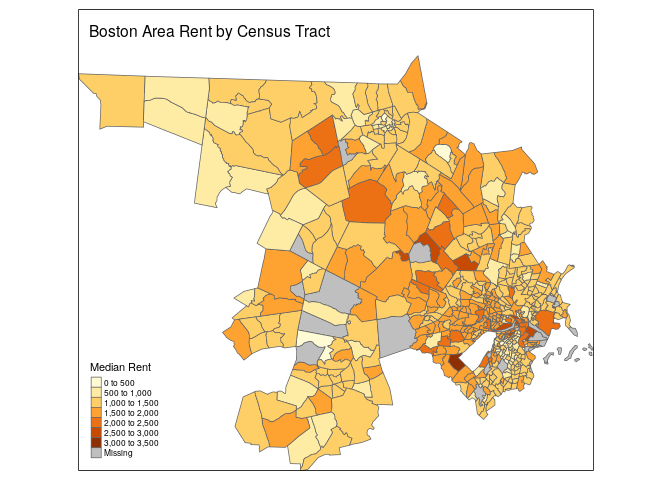
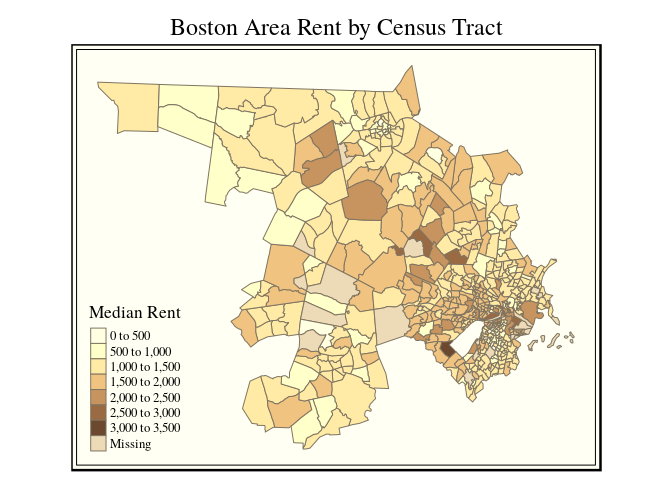
map++

diff --git a/source/Geospatial_Analysis.md b/source/Geospatial_Analysis.md
@@ -1,7 +1,7 @@
 Geospatial Analysis
 ================
 Jesse Cambon
-15 August, 2018
+31 August, 2018
 
 -   [References](#references)
 -   [Setup](#setup)
@@ -14,9 +14,6 @@ References
 ----------
 
 -   <https://github.com/mtennekes/tmap>
--   <https://ggplot2.tidyverse.org/reference/index.html>
--   <https://github.com/wmurphyrd/fiftystater>
--   <https://github.com/mtennekes/tmap/tree/master/demo/USChoropleth>
 -   <https://mran.revolutionanalytics.com/snapshot/2016-03-22/web/packages/tmap/vignettes/tmap-nutshell.html>
 
 Setup
@@ -26,14 +23,10 @@ Setup
 library(tidyverse)
 library(tidycensus) # census data
 library(ggplot2)
-library(sf) # geospatial methods
+#library(sf) # geospatial methods
 library(tmap) # thematic mapping
 library(viridis) # color scheme
-#library(albersusa) # US country map
-#library(ggthemes)
-#library(spData)
-library(wbstats) # world bank
-#library(maps)
+#library(wbstats) # world bank
 library(wesanderson) # colors
 library(fiftystater) # US state geometries
 
@@ -46,34 +39,23 @@ Geographies
 Locales
 -------
 
+Use the tidycensus package to pull Census data and display it on a map with the tmap package.
+
 ``` r
-# us_county_income <- get_acs(geography = "county", variables = "B19013_001", geometry = TRUE)
-# 
-# qtm(us_county_income, fill = "estimate")
-
-
-# us <- get_acs(geography = "county", 
-#               variables = 'B25064_001E', # median gross rent
-#               geometry = TRUE) 
-# 
-# qtm(us, fill = "estimate")
-
-
-# Rent in Boston
+# Pull Census Rent Data for Boston using tidycensus package
 bos <- get_acs(geography = "tract", 
               variables = "B25064_001E",  # median gross rent
               state = "MA", 
               county = c("Suffolk",'Middlesex'), 
               geometry = TRUE)
-```
 
-    ## Please note: `get_acs()` now defaults to a year or endyear of 2016.
-
-``` r
-qtm(bos, fill = "estimate",fill.title='Median Rent',
-    title='Boston Area Rent by Census Tract',
-    scale=0.75) +
-  tm_layout(inner.margins=c(0,0,.1,0),main.title.position='center',legend.position=c('left','bottom'))
+qtm(bos, fill = "estimate",fill.title='Median Rent') +
+   tm_style("classic") +
+  # margin format is c(bottom,left,top,right)
+  tm_layout(inner.margins = c(0.05, .05, .05, .05),main.title.position='center',legend.position=c('left','bottom'),
+            legend.text.size=0.8,legend.title.size=1.3,
+            main.title='Boston Area Rent by Census Tract',
+            main.title.size=1.5) 
 ```
 
 ![](Geospatial_Analysis_files/figure-markdown_github/locale-1.png)
@@ -90,12 +72,21 @@ United States
 ``` r
 data("fifty_states") # fiftystater package
 
-crimes <- data.frame(state = tolower(rownames(USArrests)), USArrests)
+crimes <- data.frame(state = tolower(rownames(USArrests)), USArrests) %>%
+  # Make a categorical variable for Murder rates with a predefined interval
+  mutate(Murder_cut = str_replace_all(cut_width(Murder,5,boundary=0),',',' - ')) %>%
+  # Delete all characters except for digits, whitespace, and '-'
+  mutate(Murder_cut = str_replace_all(Murder_cut,'[^\\d\\s-]',''))
+
+# make an ordered list of levels so our categorical variable is sorted properly
+Murder_cut_levels <- crimes %>% arrange(Murder) %>% pull(Murder_cut) %>%
+  unique()
+
 
 # map_id creates the aesthetic mapping to the state name column in your data
 ggplot(crimes, aes(map_id = state)) + 
   # map points to the fifty_states shape data
-  geom_map(aes(fill = Murder), 
+  geom_map(aes(fill = factor(Murder_cut,levels=Murder_cut_levels)), 
            map = fifty_states, color='white',size=0.2) +  # geometry from fiftystater package
   expand_limits(x = fifty_states$long, y = fifty_states$lat) +
   coord_map() +
@@ -108,14 +99,11 @@ ggplot(crimes, aes(map_id = state)) +
   theme(legend.position = "right", 
         panel.background = element_blank(),
         panel.border=element_blank())  +
-  scale_fill_viridis_c(direction=-1,option='inferno') 
+  scale_fill_viridis_d(direction=-1,option='inferno',end=0.9)  +
+  guides(fill = guide_legend(title='Murders Per\n100,000 Residents'))
 ```
 
 ![](Geospatial_Analysis_files/figure-markdown_github/unnamed-chunk-2-1.png)
-
-``` r
-#  guides(color = guide_legend(title='Murders Per 100,000 Residents'))
-```
 
 The World
 ---------
@@ -128,11 +116,15 @@ tm_shape(World, projection = "eck4" # Eckert IV 1906 project (preserves area)
               palette = "Greens",
               breaks = c(0, 1000, 5000, 10000, 25000, 50000, Inf),
               title = "GDP per capita") +
-  tm_style("grey",
-           earth.boundary = c(-180, -87, 180, 87))  +
+  tm_style("classic",frame=F,
+           earth.boundary = c(-180, -87, 180, 87),
+           legend.text.size=0.8,legend.title.size=1.3)   +
 #  tm_format("World", inner.margins = 0.02, frame = FALSE) 
-  tm_legend(position = "bottom", frame = TRUE, legend.outside=F) +
- tm_format("World",frame=F) 
+  tm_legend(frame = TRUE) 
 ```
 
 ![](Geospatial_Analysis_files/figure-markdown_github/unnamed-chunk-3-1.png)
+
+``` r
+# tm_format("World",frame=F) 
+```
